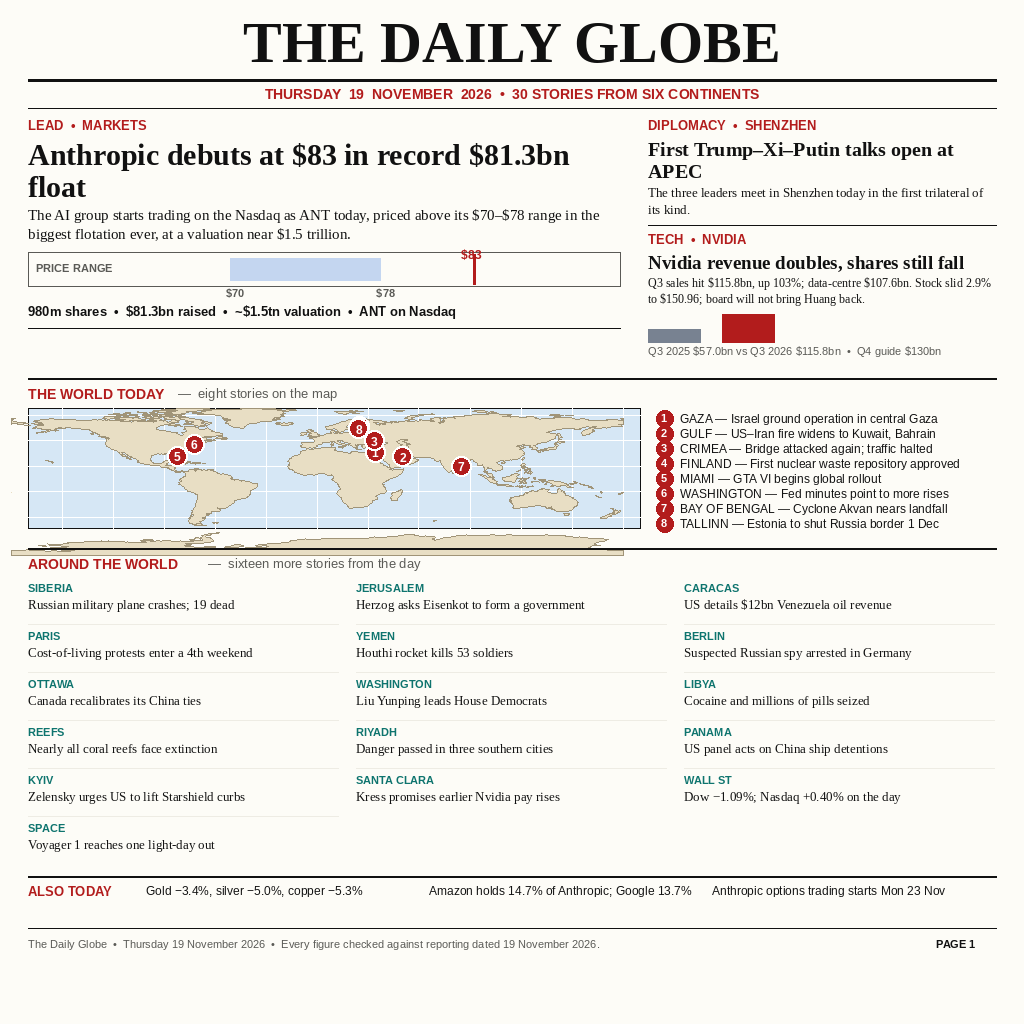
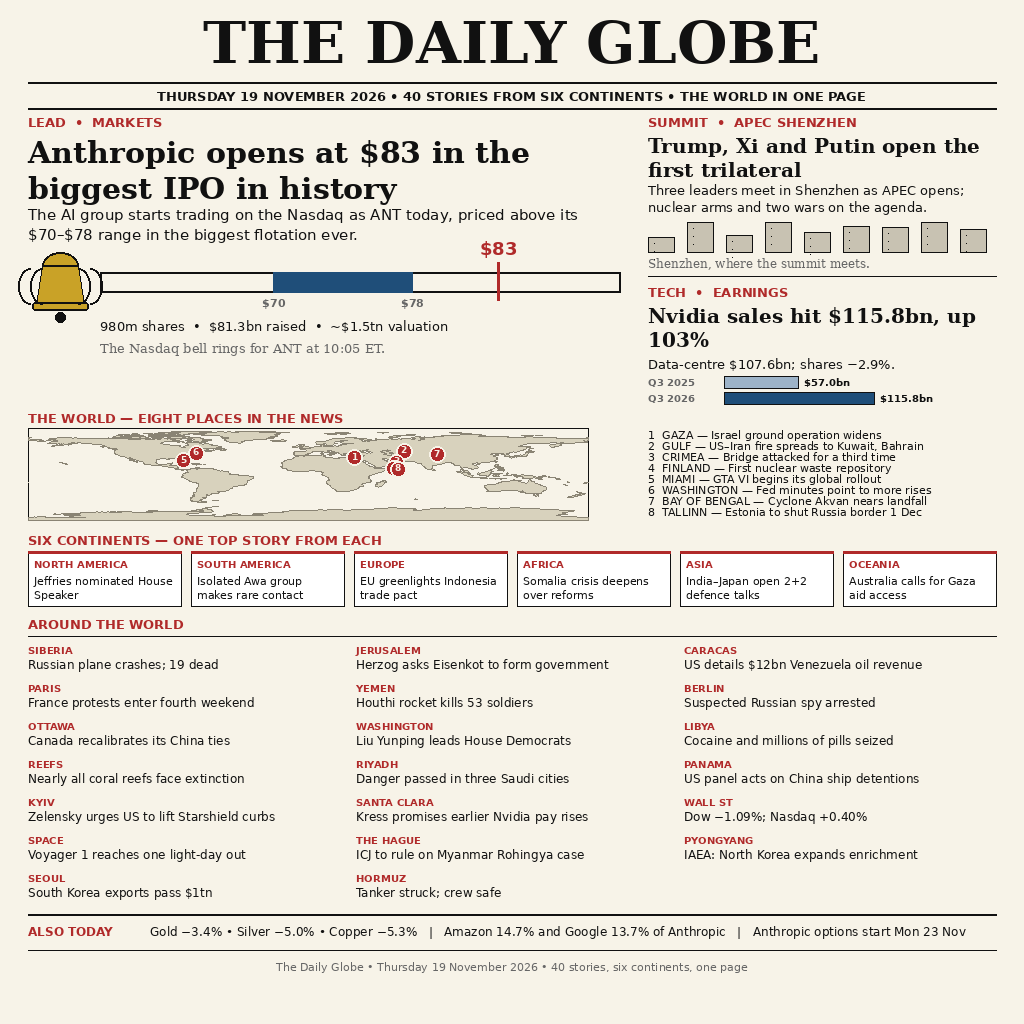
v2: 40 stories, illustrated, six continents (iterasi ke zona hadiah)

Changed region(s): [[0.0, 0.0, 0.9688, 0.9688]]

diff --git a/README.md b/README.md
@@ -1,36 +1,51 @@
-# The Daily Globe — Thursday 19 November 2026 (rebuild)
+# The Daily Globe — 19 November 2026
 
-[![make.fun · news-image-20261119](https://make.fun/badge/news-image-20261119.svg)](https://make.fun/bounty/news-image-20261119?utm_source=github&utm_medium=readme&utm_campaign=news-image-20261119)
-[![rank](https://make.fun/badge/news-image-20261119/AndryXSad/news-image-20261119-v1/rank.svg)](https://make.fun/bounty/news-image-20261119/leaderboard?utm_source=github&utm_medium=readme&utm_campaign=news-image-20261119)
-[![reward](https://make.fun/badge/news-image-20261119/AndryXSad/news-image-20261119-v1/reward.svg)](https://make.fun/bounty/news-image-20261119?utm_source=github&utm_medium=readme&utm_campaign=news-image-20261119)
+[![make.fun](https://make.fun/bounty/news-image-20261119/badge.svg)](https://make.fun/bounty/news-image-20261119)
+[![make.fun](https://make.fun/bounty/news-image-20261119/leaderboard.svg)](https://make.fun/bounty/news-image-20261119/leaderboard)
+[![make.fun](https://make.fun/bounty/news-image-20261119/submissions.svg)](https://make.fun/bounty/news-image-20261119)
 
-One image that sums up the world's news of **Thursday 19 November 2026**:
-a newspaper front page — *The Daily Globe* — with 30 stories across
-6 continents, rebuilt fresh in a new session.
+One front page that sums up Thursday 19 November 2026: **40 stories from six
+continents** — the Anthropic IPO at $83, the first Trump–Xi–Putin trilateral in
+Shenzhen, and Nvidia's $115.8bn quarter, plus a world map with eight places in
+the news, one top story from each continent, and a 20-item round-up.
 
-Lead story: Anthropic's record $81.3 billion IPO — the biggest flotation
-ever — starts trading today on the Nasdaq as ANT, priced at $83 a share,
-above its $70–$78 range, at a valuation near $1.5 trillion.
-Also on the page: the first Trump–Xi–Putin trilateral meeting at the APEC
-summit in Shenzhen, Nvidia's revenue doubling to $115.8bn (+103% YoY) even
-as its shares fell 2.9%, a world map keyed to the day's eight biggest
-stories, Israel's ground operation in central Gaza, US–Iran fire widening
-to Kuwait and Bahrain, the Crimea bridge attacked again, Finland approving
-the world's first nuclear waste repository, GTA VI's global rollout, and
-the Fed minutes pointing to more rate rises.
+## The page
 
-## How it works
+- **Lead, illustrated:** Anthropic opens at $83 in the biggest IPO in history,
+  with a drawn Nasdaq bell and the $70–$78 price-range bar (980m shares,
+  $81.3bn raised, ~$1.5tn valuation).
+- **Summit, illustrated:** Trump, Xi and Putin open the first trilateral at
+  APEC Shenzhen, with a drawn skyline of the city.
+- **Earnings, charted:** Nvidia sales $115.8bn, up 103% year on year, with a
+  Q3 2025 vs Q3 2026 bar chart (data-centre sales $107.6bn; shares −2.9%).
+- **The world:** a map with eight numbered pins (Gaza, the Gulf, Crimea,
+  Finland, Miami, Washington, the Bay of Bengal, Tallinn) and a key.
+- **Six continents:** one top story from each — Jeffries nominated House
+  Speaker (North America), the isolated Awa group makes rare contact
+  (South America), the EU greenlights the Indonesia trade pact (Europe),
+  Somalia's crisis deepens (Africa), India–Japan open 2+2 talks (Asia),
+  Australia calls for Gaza aid access (Oceania).
+- **Around the world:** 20 more stories, from a Siberian plane crash to
+  Voyager 1 reaching one light-day out, the ICJ's Myanmar ruling, and South
+  Korea's exports passing $1tn.
+- **Also today:** gold −3.4%, silver −5.0%, copper −5.3%; Amazon's 14.7% and
+  Google's 13.7% stakes in Anthropic; Anthropic options start Mon 23 Nov.
 
-`main.py` (Python 3.13, standard library only) copies the bundled
-`entry.png` (1024×1024, under 1 MiB) to `$MAKEFUN_OUTPUT_DIR/entry.png`
-when that variable is set, and to the script's own directory otherwise.
-No network, no randomness: two runs write identical bytes.
+## Entry
 
-## Facts
+`main.py` (Python 3.13, standard library only) copies the bundled `entry.png`
+(1024×1024, 152,276 bytes) to the output directory given by
+`MAKEFUN_OUTPUT_DIR`. No network, no randomness: two runs write identical
+bytes.
 
-Every figure on the page was checked against reporting dated
-19 November 2026: ANT priced $83 (range $70–$78), 980 million shares,
-~$1.5 trillion valuation, Amazon 14.7% / Google 13.7%; Nvidia Q3 revenue
-$115.8bn (+103% YoY, data centre $107.6bn), Q4 guidance $130bn, shares
-closed $150.96 (−2.89%); Dow −1.09%, Nasdaq +0.40%; gold −3.4%,
-silver −5.0%, copper −5.3%.
+## Sources
+
+Headlines were checked against reporting dated 19 November 2026: the Anthropic
+IPO and APEC trilateral, Nvidia's results, the Gaza and Gulf fighting, the
+Crimea bridge, Finland's repository, GTA VI's rollout, the Fed minutes,
+Cyclone Akvan, Estonia's border, the ICJ Myanmar case, the IAEA on North Korea,
+South Korea's $1tn exports, the Hormuz tanker strike, Jeffries' nomination,
+the Awa contact, the EU–Indonesia pact, Somalia, the India–Japan dialogue,
+and the Gaza aid call.
+
+SPDX-License-Identifier: MIT
